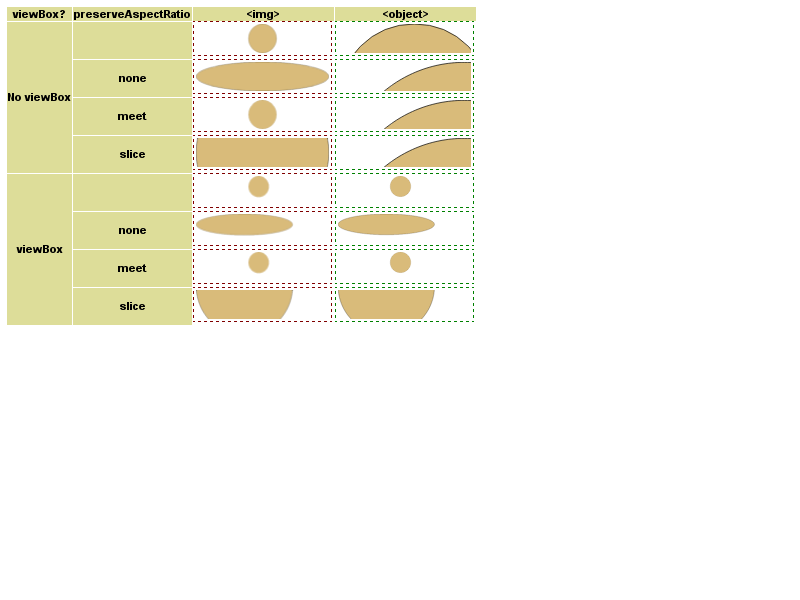
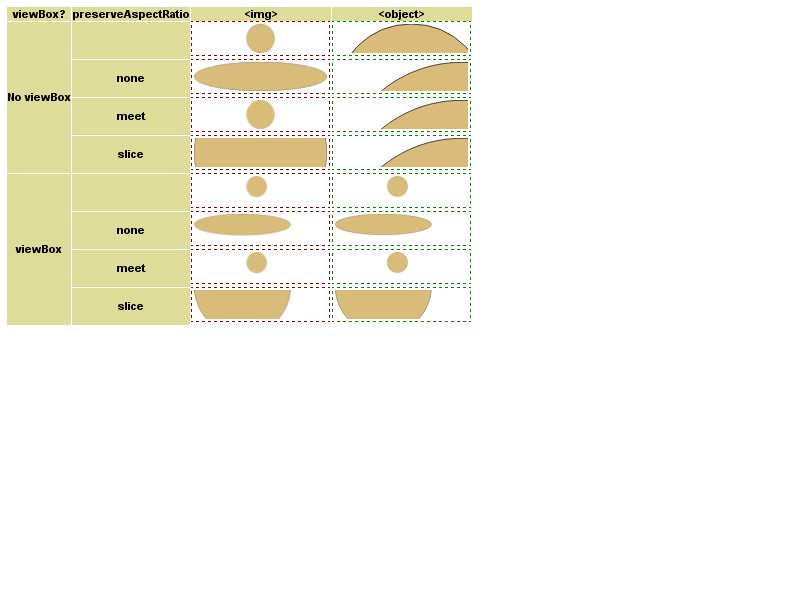
[chromium] REGRESSION: Incorrect preferred width calculation for table cells https://bugs.webkit.org/show_bug.cgi?id=97497
Reviewed by Levi Weintraub.

Source/WebCore: 

In fixing bug 93911 r125694 caused a problem with the preferred
width calculations for table cells with a fractional padding
where the logic to ensure that the cell is wide enough for the
content returns different results for cells with a fixed width
and cells with an automatic width.

Test: fast/sub-pixel/table-cells-have-stable-width.html

* rendering/AutoTableLayout.cpp:
(WebCore::AutoTableLayout::recalcColumn):
* rendering/RenderBlock.cpp:
(WebCore::RenderBlock::computePreferredLogicalWidths):
Move the logic that ensures that a cell is wide enough from AutoTableLayout::recalcColumn to RenderBlock::computePreferredLogicalWidths to. This way it also applies to FixedTableLayout which had the same problem.

LayoutTests: 

Added test for cell width calculation and reverted three svg tests to the results prior to r125694.

* fast/sub-pixel/table-cells-have-stable-width-expected.txt: Added.
* fast/sub-pixel/table-cells-have-stable-width.html: Added.
* platform/chromium-linux/svg/zoom/page/zoom-img-preserveAspectRatio-support-1-expected.png:
* platform/chromium-linux/svg/zoom/page/zoom-img-preserveAspectRatio-support-1-expected.txt:
* platform/chromium-linux/svg/zoom/page/zoom-svg-through-object-with-absolute-size-expected.png:
* platform/chromium-linux/svg/zoom/page/zoom-svg-through-object-with-absolute-size-expected.txt:
* platform/chromium-linux/svg/zoom/page/zoom-svg-through-object-with-percentage-size-expected.png:
[…]

diff --git a/fast/sub-pixel/table-cells-have-stable-width.html b/fast/sub-pixel/table-cells-have-stable-width.html
@@ -1,0 +1,80 @@
+<!DOCTYPE html>
+<html>
+    <head>
+        <style>
+            #firstCell {
+                border-right: 3px solid #e5ecf9;
+                width: 12em;
+                padding: 0.5em .5em .5em 0;
+                font-size: 95%;
+            }
+            #content {
+                position: relative;
+            }
+            #fixedTable {
+                table-layout: fixed;
+            }
+            #firstFixedCell {
+                width: 21.2px;
+                margin: 0.3px;
+                padding: 0.1px;
+            }
+        </style>
+        <script src="../js/resources/js-test-pre.js"></script>
+    </head>
+
+    <body>
+        <table width="100%" cellpadding="0" cellspacing="0" border="0">
+            <tbody class="collapse"> 
+                <tr>
+                    <td id="firstCell">
+                        <div id="content">
+                            <table cellspacing="0" cellpadding="0">
+                                <tbody>
+                                    <tr>
+                                        <th align="left">Cc:</th>
+                                        <td>AutoTableLayout</td>
+                                    </tr>
+                            </tbody>
+                        </table>
+                    </div>
+                </td>
+                <td width="100%"></td>
+                </tr>
+            </tbody>
+        </table>
+        
+        <table id="fixedTable">
+            <tr>
+                <td id="firstFixedCell"><div id="fixedContent">foo</div></td>
+                <td>FixedTableLayout</td>
+            </tr>
+        </table>
+        
+        <p>
+            Tests that setting the width of an element inside a cell to the computed width of said element does not change the width of the cell itself.
+        </p>
+
+        <script>
+            var autoEl = document.getElementById("content");
+            var autoCell = document.getElementById("firstCell");
+            var autoExpectedWidth = String(autoCell.getBoundingClientRect().width);
+            autoEl.style.width = autoEl.getBoundingClientRect().width + "px";
+            if (autoCell.getBoundingClientRect().width == autoExpectedWidth)
+                testPassed('Cell in AutoTable has expected size');
+            else
+                shouldBe('autoCell.getBoundingClientRect().width', autoExpectedWidth);
+            
+            
+            var fixedEl = document.getElementById("fixedContent");
+            var fixedCell = document.getElementById("firstFixedCell");
+            var fixedExpectedWidth = String(fixedCell.getBoundingClientRect().width);
+            fixedEl.style.width = fixedEl.getBoundingClientRect().width + "px";
+            if (fixedCell.getBoundingClientRect().width == fixedExpectedWidth)
+                testPassed('Cell in FixedTable has expected size');
+            else
+                shouldBe('fixedCell.getBoundingClientRect().width', fixedExpectedWidth);
+
+        </script>
+    </body>
+</html>
